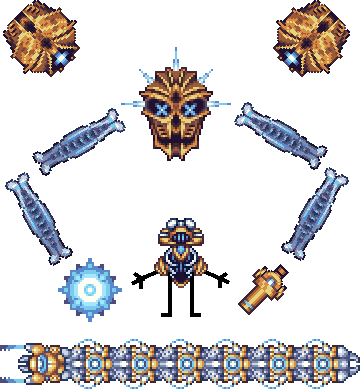
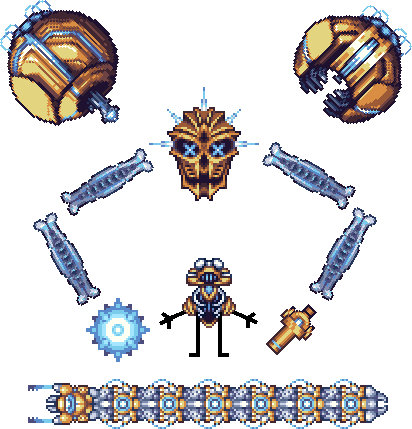
auric twin resprites

diff --git a/Content/NPCs/Subworlds/Sealed/Godraycaster.cs b/Content/NPCs/Subworlds/Sealed/Godraycaster.cs
@@ -555,13 +555,19 @@ namespace CalRemix.Content.NPCs.Subworlds.Sealed
                     }
 
                     spriteBatch.EnterShaderRegion();
-                    PrimitiveRenderer.RenderTrail(ribbonDrawPositions, new(new((float f) => 80 * (1 - f)), new PrimitiveSettings.VertexColorFunction((float f) => (Color.Lerp(IsSecondEye ? Color.Red : Color.CornflowerBlue, default, f))), shader: GameShaders.Misc["CalamityMod:ImpFlameTrail"]));
+                    PrimitiveRenderer.RenderTrail(ribbonDrawPositions, new(new((float f) => 80 * (1 - f)), new PrimitiveSettings.VertexColorFunction((float f) => (Color.Lerp(Color.CornflowerBlue, default, f))), shader: GameShaders.Misc["CalamityMod:ImpFlameTrail"]));
                     spriteBatch.ExitShaderRegion();
                 }
             }
 
-            Texture2D aye = TextureAssets.Npc[Type].Value;
+            Texture2D aye = !IsSecondEye ? TextureAssets.Npc[Type].Value : ModContent.Request<Texture2D>("CalRemix/Content/NPCs/Subworlds/Sealed/Godraytracer").Value;
+            Texture2D glow = !IsSecondEye ? ModContent.Request<Texture2D>(Texture + "_Glow").Value : ModContent.Request<Texture2D>("CalRemix/Content/NPCs/Subworlds/Sealed/Godraytracer_Glow").Value;
             spriteBatch.Draw(aye, NPC.Center - screenPos, null, drawColor, NPC.rotation + MathHelper.PiOver2, aye.Size() / 2, NPC.scale, 0, 0);
+
+            float glowOpacy = State == (float)PhaseType.Stunned && ExtraVar2 == 2 ? CalamityUtils.ExpInEasing(Utils.GetLerpValue(100, 200, Timer, true), 1) : 1f;
+            {
+                spriteBatch.Draw(glow, NPC.Center - screenPos, null, Color.White * glowOpacy, NPC.rotation + MathHelper.PiOver2, aye.Size() / 2, NPC.scale, 0, 0);
+            }
             return false;
         } 
     }
